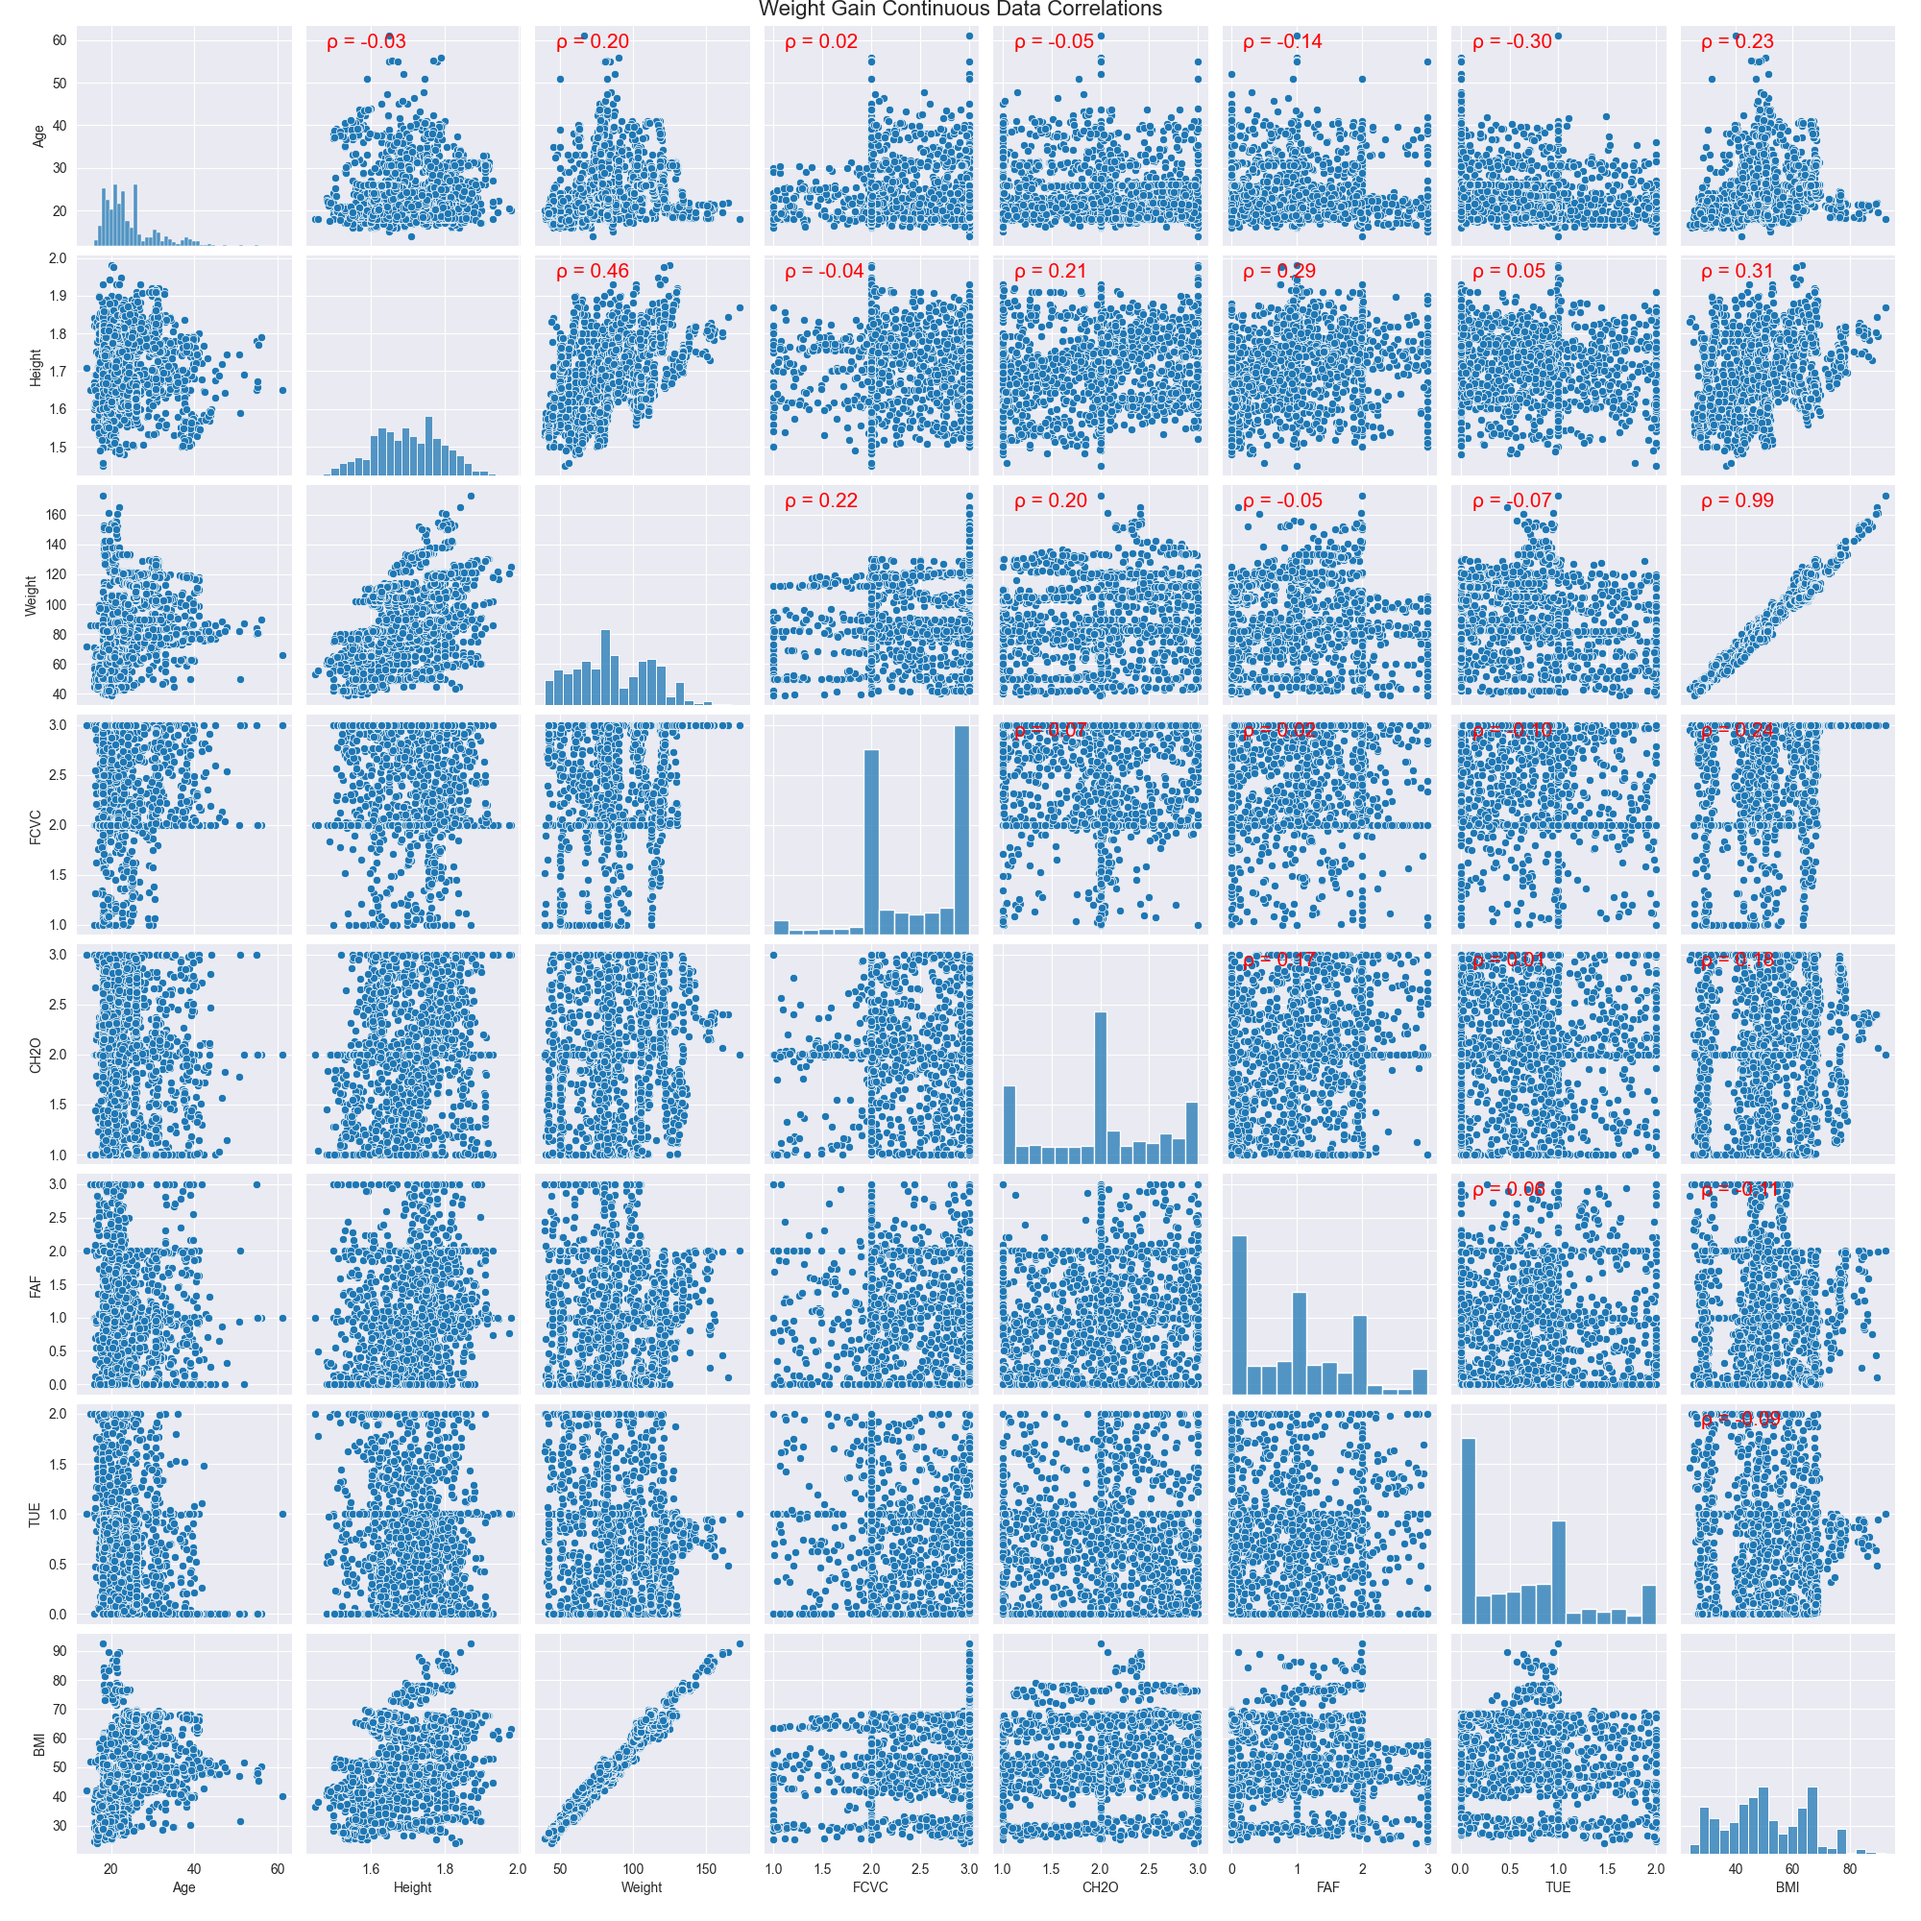
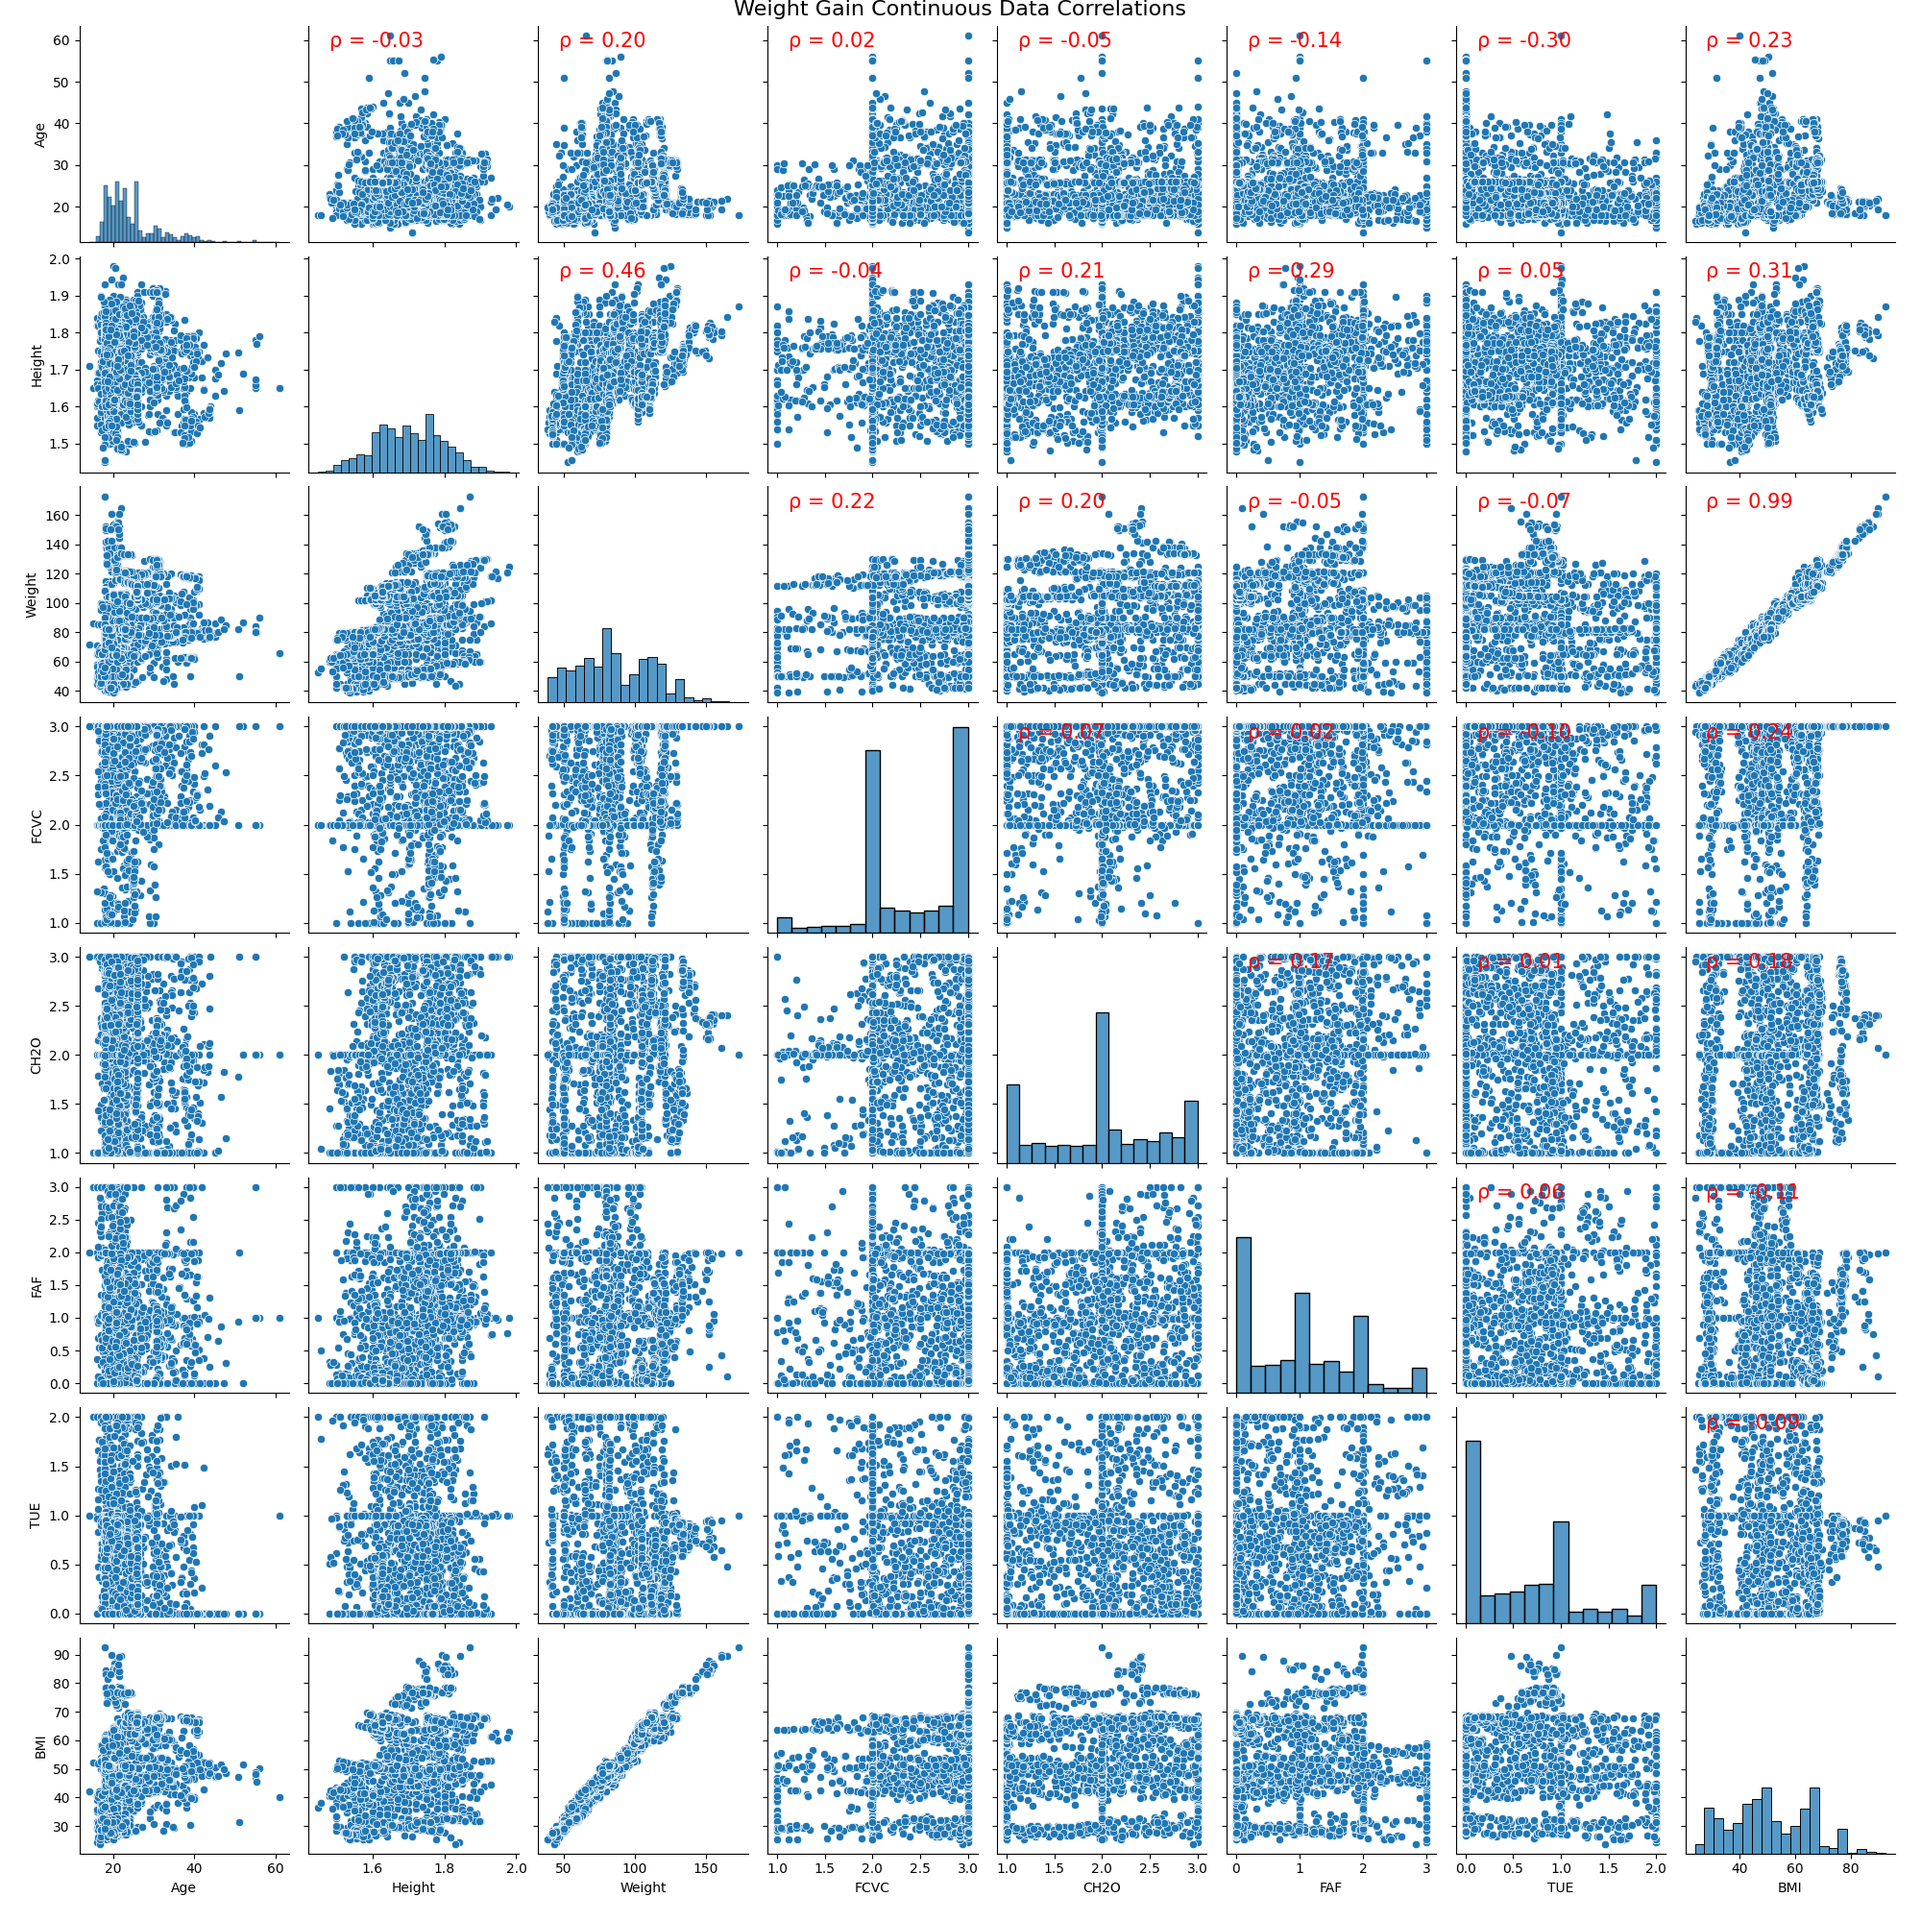
convert to .py file

diff --git a/A1M1/A1M1MurphyRProg.py b/A1M1/A1M1MurphyRProg.py
@@ -1,0 +1,363 @@
+#%% Define Utility Functions
+
+from scipy.stats import pearsonr
+import numpy as np
+
+
+def corrfunc(x, y, ax=None, **kws):
+    """Plot the correlation coefficient in the top left hand corner of a plot."""
+    r, _ = pearsonr(x, y)
+    ax = ax or plt.gca()
+    ax.annotate(f'ρ = {r:.2f}', xy=(.1, .9), xycoords=ax.transAxes, color = "red", fontsize = 15)
+
+
+def qq_plot(lm,save_path, kind="Residuals"):
+    # Extract residuals from the linear model
+    resid = lm.resid
+
+    # Calculate the quantiles
+    y = np.quantile(resid[~np.isnan(resid)], [0.25, 0.75])
+    x = stats.norm.ppf([0.25, 0.75])
+
+    # Calculate the slope and intercept for the Q-Q plot reference line
+    slope = np.diff(y) / np.diff(x)
+    intercept = y[0] - slope * x[0]
+
+    # Create the Q-Q plot
+    plt.figure(figsize=(8, 6))
+    stats.probplot(resid, dist="norm", plot=plt)
+    plt.plot(x, slope * x + intercept, color="blue", lw=2)
+
+    # Customize the plot
+    plt.title(f"{kind} Q-Q Plot")
+    plt.xlabel('Theoretical Quantiles')
+    plt.ylabel('Sample Quantiles')
+    plt.savefig(save_path)
+
+    plt.show()
+
+#%% Read data method 1
+import pandas as pd
+# df = pd.read_csv("ObesityDataSet_raw_and_data_sinthetic.csv")
+
+#%% Read data method 2
+from ucimlrepo import fetch_ucirepo
+import pandas as pd
+# fetch dataset
+estimation_of_obesity_levels_based_on_eating_habits_and_physical_condition = fetch_ucirepo(id=544)
+
+# data (as pandas dataframes)
+X = estimation_of_obesity_levels_based_on_eating_habits_and_physical_condition.data.features
+y = estimation_of_obesity_levels_based_on_eating_habits_and_physical_condition.data.targets
+
+df = pd.concat([X, y], axis=1)
+
+
+#%% Extract column meta data
+# metadata
+meta_data = estimation_of_obesity_levels_based_on_eating_habits_and_physical_condition.metadata
+
+# variable information
+variables = estimation_of_obesity_levels_based_on_eating_habits_and_physical_condition.variables
+
+
+
+df["BMI"] = df["Weight"] / df["Height"]
+
+continuous_vars = variables[(variables["type"] == "Continuous") |
+                            (variables["type"] == "Integer")]["name"].to_list() + ["BMI"]
+
+
+categorical_vars = variables[(variables["type"] == "Categorical") |
+                             (variables["type"] == "Binary")]["name"].to_list()
+
+
+#A few of the NCP values (number of meals per day) are long floats which doesnt make sence
+#I rounded them and will treat as categorical vars since there are only 4 values
+df["NCP"] = df["NCP"].astype(int).round()
+continuous_vars.remove("NCP")
+categorical_vars.append("NCP")
+
+variables[["name","description"]]
+
+
+#%% Describe the continuous variables distribution
+df[continuous_vars].describe()
+
+#%% Count the frequency of categorical varaibles
+from pprint import pprint
+cts = df.value_counts()
+count_dict = {}
+for v in categorical_vars:
+    count_dict[v] = df[v].value_counts().to_dict()
+
+pprint(count_dict)
+
+
+#%% continuous scatter plots
+import seaborn as sns
+import matplotlib.pyplot as plt
+
+
+# First plot: Continuous Data Correlations
+path = "Plots/CorrelationX1.png"
+main = "Weight Gain Continuous Data Correlations"
+
+# Create the pair plot
+g = sns.pairplot(df[continuous_vars])
+g.map_upper(corrfunc)
+plt.suptitle(main, y=1, fontsize=16)
+plt.savefig(path)
+plt.show()
+
+
+#%% Continuous correlations
+# Correlations are a little hard to read in the previous code so I made a sepearte plot of numeric correlations.
+corr_matrix = df[continuous_vars].corr()
+plt.figure(figsize=(10, 8))
+sns.heatmap(corr_matrix, annot=True, cmap='coolwarm', center=0)
+plt.title('Correlation Matrix')
+plt.savefig("Plots/CorrelationNumericX1.png")
+plt.show()
+
+#%% Categorical correlations
+import seaborn as sns
+import matplotlib.pyplot as plt
+import pandas as pd
+import itertools
+import math
+
+# Create pairs of categorical variables
+pairs = list(itertools.combinations(categorical_vars, 2))
+
+# Calculate the number of rows and columns needed for the grid
+num_pairs = len(pairs)
+cols = int(math.ceil(math.sqrt(num_pairs)))
+rows = int(math.ceil(num_pairs / cols))
+
+# Set up the matplotlib figure with adjusted size
+fig, axes = plt.subplots(rows, cols, figsize=(4*cols, 4*rows), sharex=False, sharey=False)
+
+# Flatten axes array for easy iteration
+axes = axes.flatten()
+
+# Iterate over pairs and plot
+for ax, (var1, var2) in zip(axes, pairs):
+    sns.countplot(data=df, x=var1, hue=var2, ax=ax)
+    ax.set_title(f'{var1} vs {var2}')
+    ax.legend(loc='upper right', bbox_to_anchor=(1.1, 1.05))
+
+# Remove any unused subplots
+for i in range(len(pairs), len(axes)):
+    fig.delaxes(axes[i])
+
+# Add a title for the whole figure
+fig.suptitle("Frequency of Categorical Variables Comparison", fontsize=16)
+plt.subplots_adjust(top=0.95, hspace=0.4, wspace=0.4)
+plt.savefig("Plots/CorrelationX2.png")
+
+plt.show()
+
+#%% Interactions
+df['MTRANS'] = df['MTRANS'].astype('category')
+
+# Create a box plot
+plt.figure(figsize=(12, 8))
+sns.boxplot(data=df, x='MTRANS', y='FAF')
+
+# Add title and labels
+plt.title('Box Plot of FAF by MTRANS')
+plt.xlabel('Mode of Transportation (MTRANS)')
+plt.ylabel('FAF (Continuous Variable)')
+plt.savefig("Plots/Box Plot of FAF by MTRANS.png")
+
+#%% Create the model
+from scipy import stats
+from statsmodels.formula.api import ols
+model = ols("BMI~(Gender + Age + FAVC + FCVC + CALC + SCC + FAF + CH2O + CAEC+ TUE)",data=df).fit()
+m1 = model
+#yes: Gender, Age, FAVC, FCVC, CALC, SCC, FAF, CAEC, TUE
+
+vars_used = ["Gender", "Age", "FAVC", "FCVC", "CALC", "SCC", "FAF", "CAEC", "TUE"]
+#no: Height, Weight, NObeyesdad, family_history_with_overweight, smoke, NCP, MTRANS
+
+
+#%% Hypothesis testing
+stats.skew(m1.resid)
+#%%
+stats.kurtosis(m1.resid)
+#%%
+from statsmodels.stats.anova import anova_lm
+anova_lm(m1)
+#%%
+summary_df = pd.DataFrame({
+    'Coefficient': model.params,
+    't-value': model.tvalues,
+    'p-value': model.pvalues,
+})
+
+# summary_df
+m1.summary()
+#%%
+qq_plot(m1, "Plots/QQPlot.png")
+
+#%% Check Residuals variance
+import matplotlib.pyplot as plt
+
+df_plot = pd.DataFrame({"Predictions": m1.fittedvalues,
+                        "Residuals": m1.resid})
+
+plt.figure(figsize=(10,6))
+sns.scatterplot(data=df_plot, x="Predictions", y="Residuals")
+plt.axhline(0, linestyle='--', color='red')
+plt.title('Assumptions: Residuals vs. Predicted', fontsize=14, ha='center')
+plt.xlabel('Predictions')
+plt.ylabel('Residuals')
+
+# Save the plot
+plt.savefig('Plots/ResVsPred.png')
+plt.show()
+
+#%%
+from statsmodels.stats.diagnostic import het_breuschpagan
+bp_test = het_breuschpagan(m1.resid, model.model.exog)
+bp_test_statistic = bp_test[0]
+bp_test_p_value = bp_test[1]
+bp_test_f_value = bp_test[2]
+bp_test_f_p_value = bp_test[3]
+
+print("bp_test_statistic: ", bp_test_statistic,
+      "\nbp_test_p_value: ", bp_test_p_value,
+      "\nbp_test_f_value: ", bp_test_f_value,
+      "\nbp_test_f_p_value: ", bp_test_f_p_value)
+
+
+#%% Levene
+from scipy.stats import levene
+
+stat, p_value = levene(*[group["BMI"].values for name, group in df.groupby("FAF")])
+
+print(f"Levene's Test Statistic: {stat}")
+print(f"Levene's Test p-value: {p_value}")
+
+# Create a box plot
+plt.figure(figsize=(10, 6))
+sns.boxplot(data=df, x='FAF', y='BMI')
+
+# Add title and labels
+plt.title('Box Plot of Weight by Cell')
+plt.xlabel('Cell')
+plt.ylabel('Weight')
+
+# Save the plot
+plt.savefig("Plots/HIVBP.png")
+
+# Show the plot
+plt.show()
+#%%
+for i in vars_used:
+    stat, p_value = levene(*[group["BMI"].values for name, group in df.groupby(i)])
+    print(f"Levene's Test for: {i}")
+    print(f"Levene's Test Statistic: {stat}")
+    print(f"Levene's Test p-value: {p_value}")
+    print("\n")
+
+#%%
+from statsmodels.stats.diagnostic import acorr_ljungbox
+
+# Ljung-Box test
+ljung_box_result = acorr_ljungbox(m1.resid, lags=[1], return_df=True)
+print(ljung_box_result)
+#%%
+import os
+
+# Simulate residuals (residuals from the fitted model)
+residuals = model.resid
+
+# Plot residuals vs fitted values
+ptype = "ResVpred"
+ver = "version"  # Define your version variable
+part = "part"    # Define your part variable
+mdl = "model"    # Define your model name
+loc = os.path.join("Plots", "ResVBigBin.png")
+
+plt.figure(figsize=(10, 6))
+sns.residplot(x=model.fittedvalues, y=residuals, lowess=True)
+plt.xlabel('Fitted values')
+plt.ylabel('Residuals')
+plt.title('Residuals vs Fitted values')
+plt.savefig(loc)
+
+#%%
+from statsmodels.stats.multicomp import pairwise_tukeyhsd
+import statsmodels.api as sm
+
+aov_table = sm.stats.anova_lm(model, typ=2)
+print(aov_table)
+
+# Perform Tukey's HSD test for pairwise comparisons
+tukey = pairwise_tukeyhsd(endog=df['BMI'],
+                          groups=df['FAVC'].astype(str) + " : " + df['CAEC'].astype(str),
+                          alpha=0.05)
+
+# Print Tukey's HSD results
+print(tukey)
+
+# Plot and save the Tukey HSD results
+plt.figure(figsize=(10, 6))
+tukey.plot_simultaneous()
+plt.title('Tukey HSD Test for Pairwise Comparisons')
+plt.xlabel('Mean Difference')
+plt.grid(True)
+
+# Ensure the directory exists
+output_dir = "A1M1/Plots"
+if not os.path.exists(output_dir):
+    os.makedirs(output_dir)
+
+plt.savefig(os.path.join(output_dir, "HIVPWC.png"))
+#%%
+m2 = ols("BMI~(Gender + Age + FAVC + FCVC + CALC + SCC + FAF + CH2O + CAEC + TUE + FAVC*CAEC)", data=df).fit()
+
+# Summary of the model
+model_summary = m2.summary()
+print(model_summary)
+
+# Save the summary to a LaTeX file
+with open("A1M1/Tables/ModelSummaryAll.tex", "w") as f:
+    f.write(model_summary.as_latex())
+
+#%%  Effect Size
+import pingouin as pg
+
+# Calculate effect sizes
+
+# Prepare data for effect size calculation
+df['Gender'] = df['Gender'].astype('category').cat.codes
+df['FAVC'] = df['FAVC'].astype('category').cat.codes
+df['CALC'] = df['CALC'].astype('category').cat.codes
+df['SCC'] = df['SCC'].astype('category').cat.codes
+df['CAEC'] = df['CAEC'].astype('category').cat.codes
+
+# Create interaction term manually
+df['FAVC_CAEC'] = df['FAVC'] * df['CAEC']
+
+# List of predictor variables including interaction term
+predictors = ['Gender', 'Age', 'FAVC', 'FCVC', 'CALC', 'SCC', 'FAF', 'CH2O', 'CAEC', 'TUE', 'FAVC_CAEC']
+
+# Calculate effect sizes
+effect_sizes = pg.linear_regression(df[predictors], df['BMI'])
+print(effect_sizes)
+
+# Save the effect sizes to a LaTeX file
+with open("Tables/EffectSize.tex", "w") as f:
+    f.write(effect_sizes.to_latex())
+#%%
+# Fit another model (for comparison)
+# Compare models using ANOVA
+anova_results = sm.stats.anova_lm(m1, m2)
+print(anova_results)
+
+# Save the ANOVA comparison to a LaTeX file
+with open("Tables/ModelCompare.tex", "w") as f:
+    f.write(anova_results.to_latex())
